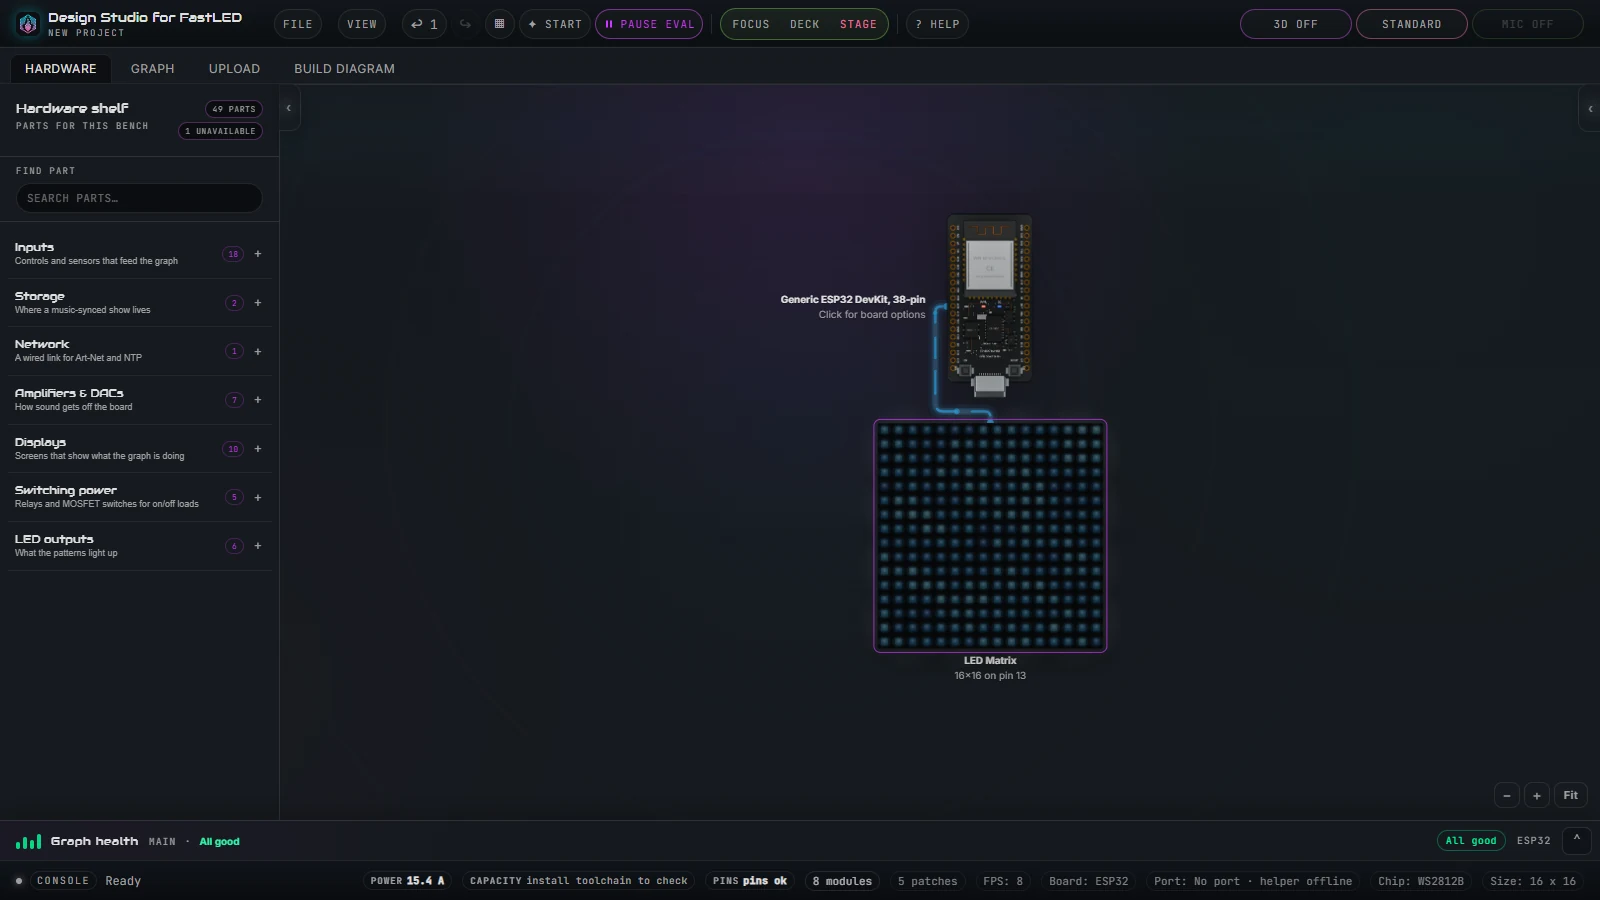
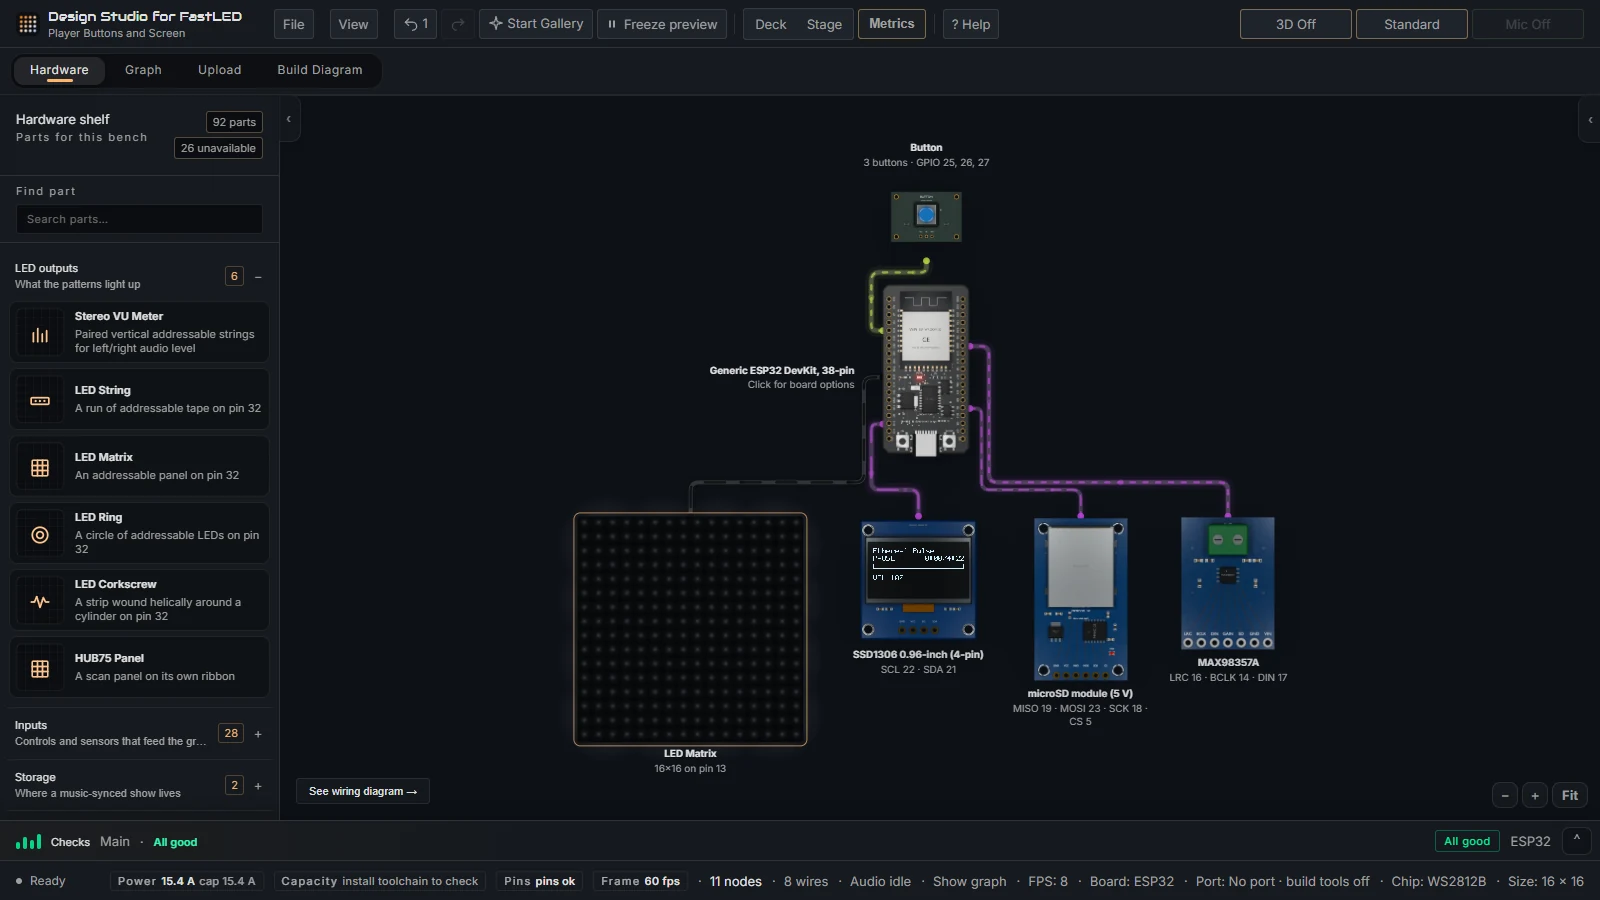
docs(readme): recapture screenshots in the current brand
All six README shots showed the retired magenta chrome and logo. They
are recaptured at 1600x900 as WebP from the built-in starters: Field
Transform Demo on the sunset palette for the overview and Pattern
Library, Fire for the patch, a Pattern Slideshow in Stage View, and
Player Buttons and Screen for a fuller Hardware tab. Stage View moves
from PNG to WebP.

diff --git a/README.md b/README.md
@@ -8,7 +8,7 @@ Design Studio for FastLED is a live, node-based creative environment for LED str
 
 [Check beta releases](https://github.com/stevenmunn312-tech/Design-Studio-for-FastLED/releases) · [Run from source](#run-from-source) · [Help test hardware](#help-test-the-beta)
 
-![A complete Field Warp patch running in Design Studio for FastLED](docs/images/readme/design-studio-overview.webp)
+![A Field Transform patch running in Design Studio for FastLED: three noise fields bend one image, shown live on a 16×16 LED matrix](docs/images/readme/design-studio-overview.webp)
 
 ## What's new in 0.8
 
@@ -51,13 +51,13 @@ Most starters are deliberately simple: a pattern flows into an LED output. Chang
 
 | Build and preview a patch | Browse and collect reusable patterns |
 | --- | --- |
-| ![A Fire 2012 patch driving an LED Matrix](docs/images/readme/design-studio-patch.webp) | ![The Pattern Library open beside a live Field Warp patch](docs/images/readme/design-studio-pattern-library.webp) |
+| ![A Fire 2012 patch driving an LED Matrix](docs/images/readme/design-studio-patch.webp) | ![The Pattern Library open beside a live Field Transform patch](docs/images/readme/design-studio-pattern-library.webp) |
 
 ## Put the visuals center stage
 
 Press **Stage View** or **F10** to turn the workspace into a clean operator view. The output matrix becomes the focus while spectrum, transport, frame rate, memory, and signal state remain visible. Toggle the 3D presentation, cycle spectrum styles, or press **Esc** to return to the editor.
 
-![Stage View showing a full-screen live matrix and performance controls](docs/images/readme/design-studio-stage.png)
+![Stage View showing a full-screen live matrix and performance controls](docs/images/readme/design-studio-stage.webp)
 
 ## Get started
 
@@ -131,7 +131,7 @@ The workspace is four tabs, in the order the work is done — **Hardware**, **Gr
 - The **Graph** tab owns connections. Signal-carrying hardware appears there as a node; Board, SD Card, and amplifier/DAC stay on the Hardware tab only because they carry configuration rather than graph data.
 - The LED output node owns dimensions, frame routing, physical layout, color correction, dithering, and supersampling. The Board owns controller-wide brightness, power cap, overclock, PSRAM policy, and serial route.
 
-![The Hardware tab: the parts shelf beside an ESP32 board wired to an LED matrix at true scale](docs/images/readme/design-studio-hardware.webp)
+![The Hardware tab: the parts shelf beside an ESP32 board wired to buttons, an OLED, a microSD module, an I2S amplifier and an LED matrix at true scale](docs/images/readme/design-studio-hardware.webp)
 
 Changing boards retargets only pins Studio assigned; hand-picked pins are remembered per board. Use the board’s pinout button to verify headers, and open the **Build Diagram** tab when you need the full pin-level assembly and power plan rather than the Hardware tab's overview.
 
